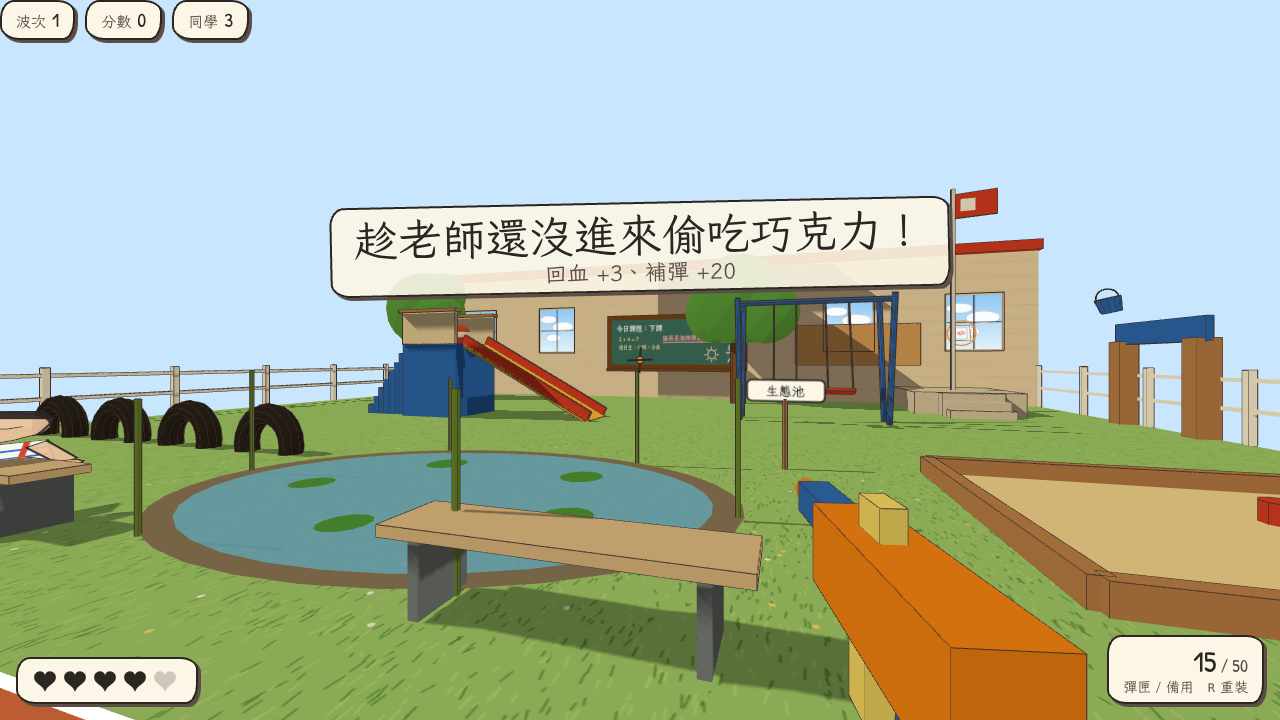
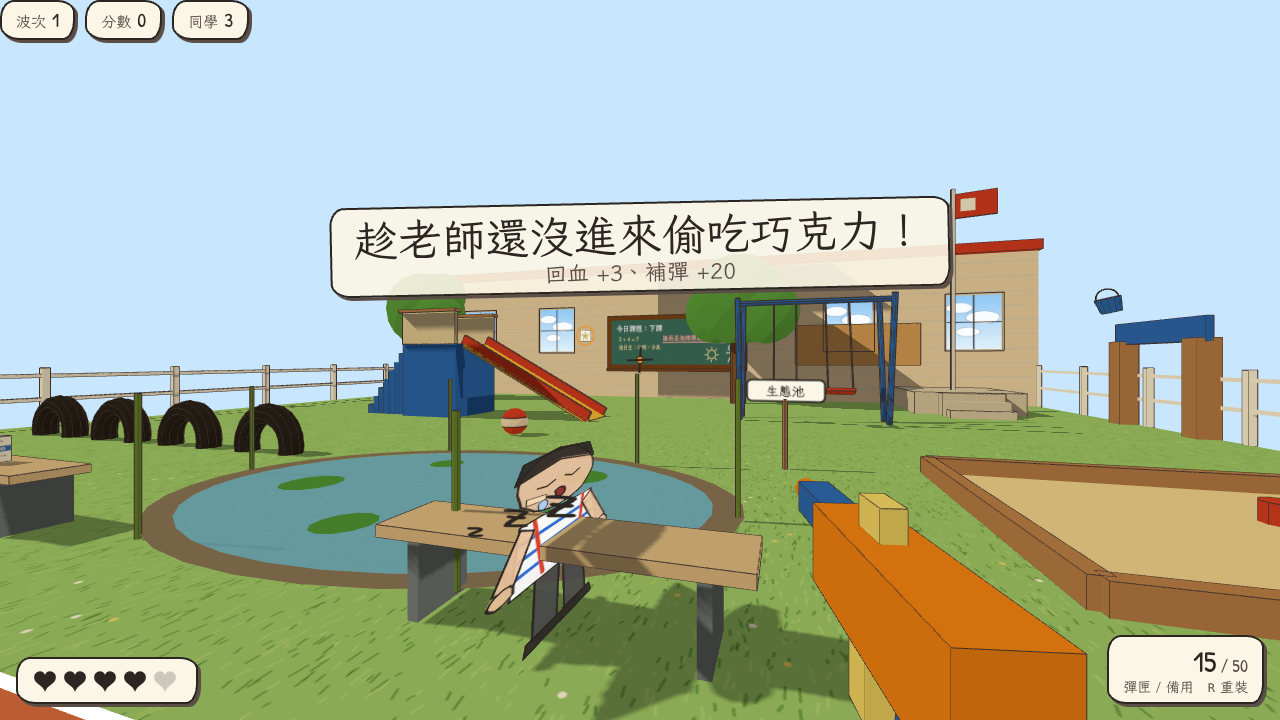
鞦韆腳架、生態池改成軟碰撞盒：只擋腳不擋彈，看得穿就打得到
Claude-Session: https://claude.ai/code/session_01JhYTsN25smVCe6zoC6MjkF

diff --git a/src/world.js b/src/world.js
@@ -27,7 +27,8 @@ export class World {
   dispose() { for (const o of this.objects) this.scene.remove(o); this.objects = []; this.boxes = []; this.desks = []; }
   toon(color) { return new THREE.MeshToonMaterial({ color, gradientMap: this.gradient }); }
   inked(mesh) { const e = new THREE.LineSegments(new THREE.EdgesGeometry(mesh.geometry, 20), this.inkMat); mesh.add(e); return mesh; }
-  collide(x, z, w, d, h, y0 = 0) { this.boxes.push({ minX: x - w / 2, maxX: x + w / 2, minZ: z - d / 2, maxZ: z + d / 2, h, y0 }); }
+  // soft: stops feet (walking, the nav grid) but not darts or sight — for open frames like the swing's A-legs and the pond's water
+  collide(x, z, w, d, h, y0 = 0, soft = false) { this.boxes.push({ minX: x - w / 2, maxX: x + w / 2, minZ: z - d / 2, maxZ: z + d / 2, h, y0, soft }); }
   // floor height at a point: 0 on the ground, the platform height on a stage or balcony, in between on stairs
   heightAt(x, z) {
     let h = 0;
@@ -177,7 +178,7 @@ export class World {
     switch (f.kind) {
       case 'swing': { // an A-frame with two seats that sway
         const g = new THREE.Group(); g.position.set(f.x, 0, f.z); this.add(g);
-        for (const sx of [-1, 1]) { for (const sz of [-1, 1]) { const leg = this.cylinder(0.05, 2.5, sx * 1.4, 1.25, sz * 0.5, 0x2f6fd1, { collide: false, parent: g, seg: 8 }); leg.rotation.x = sz * 0.2; } this.collide(f.x + sx * 1.4, f.z, 0.4, 1.2, 2.5); }
+        for (const sx of [-1, 1]) { for (const sz of [-1, 1]) { const leg = this.cylinder(0.05, 2.5, sx * 1.4, 1.25, sz * 0.5, 0x2f6fd1, { collide: false, parent: g, seg: 8 }); leg.rotation.x = sz * 0.2; } this.collide(f.x + sx * 1.4, f.z, 0.4, 1.2, 2.5, 0, true); }
         const bar = this.cylinder(0.05, 3.0, 0, 2.45, 0, 0x2f6fd1, { collide: false, parent: g, seg: 8 }); bar.rotation.z = Math.PI / 2;
         [-0.5, 0.5].forEach((sx, i) => {
           const pivot = new THREE.Group(); pivot.position.set(sx, 2.45, 0); g.add(pivot);
@@ -192,7 +193,7 @@ export class World {
         const rim = new THREE.Mesh(new THREE.RingGeometry(0.98, 1.08, 36), this.toon(0x8a7a66)); rim.rotation.x = -Math.PI / 2; rim.scale.set(f.w / 2, f.d / 2, 1); rim.position.set(f.x, 0.03, f.z); this.add(rim);
         for (let i = 0; i < 5; i++) { const a = i / 5 * 6.283 + 0.4, pad = new THREE.Mesh(new THREE.CircleGeometry(0.18 + Math.random() * 0.1, 12), this.toon(0x4f9a3f)); pad.rotation.x = -Math.PI / 2; pad.position.set(f.x + Math.cos(a) * f.w * 0.3, 0.04, f.z + Math.sin(a) * f.d * 0.3); this.add(pad); }
         for (let i = 0; i < 6; i++) { const a = i / 6 * 6.283, rx = f.x + Math.cos(a) * (f.w / 2 + 0.15), rz = f.z + Math.sin(a) * (f.d / 2 + 0.15); this.cylinder(0.02, 0.9 + Math.random() * 0.4, rx, 0.5, rz, 0x6b8f3a, { collide: false, seg: 6 }); }
-        this.collide(f.x, f.z, f.w, f.d * 0.5, 0.35); this.collide(f.x, f.z, f.w * 0.7, f.d * 0.85, 0.35); this.collide(f.x, f.z, f.w * 0.4, f.d, 0.35);
+        this.collide(f.x, f.z, f.w, f.d * 0.5, 0.35, 0, true); this.collide(f.x, f.z, f.w * 0.7, f.d * 0.85, 0.35, 0, true); this.collide(f.x, f.z, f.w * 0.4, f.d, 0.35, 0, true);
         const sign = new THREE.Mesh(new THREE.PlaneGeometry(0.9, 0.3), new THREE.MeshBasicMaterial({ map: Draw.tex(Draw.nameTag('生態池', '#fbf6e6', '#2b2622')), transparent: true })); sign.position.set(f.x + f.w / 2 + 0.5, 0.9, f.z - f.d / 2 - 0.2); this.add(sign); this.cylinder(0.03, 0.8, f.x + f.w / 2 + 0.5, 0.4, f.z - f.d / 2 - 0.22, 0xb98556, { collide: false, seg: 6 });
         return;
       }
@@ -411,7 +412,7 @@ export class World {
   pointInBox(p) {
     if (Math.abs(p.x) > this.room.w / 2 - 0.05 || Math.abs(p.z) > this.room.d / 2 - 0.05) return 'wall';
     if (p.y > this.room.h - 0.05) return 'wall';
-    for (const b of this.boxes) if (p.x > b.minX && p.x < b.maxX && p.z > b.minZ && p.z < b.maxZ && p.y < b.h && p.y > b.y0) return b;
+    for (const b of this.boxes) if (!b.soft && p.x > b.minX && p.x < b.maxX && p.z > b.minZ && p.z < b.maxZ && p.y < b.h && p.y > b.y0) return b;
     if (this.terrain.length && p.y < this.heightAt(p.x, p.z) - 0.02) return 'wall';
     return null;
   }
@@ -432,6 +433,7 @@ export class World {
       for (let i = 1; i < n; i++) { const t = i / n, x = p0.x + (p1.x - p0.x) * t, y = p0.y + (p1.y - p0.y) * t, z = p0.z + (p1.z - p0.z) * t; if (y < this.heightAt(x, z) - 0.03) return true; }
     }
     for (const b of this.boxes) {
+      if (b.soft) continue;
       let tmin = 0, tmax = 1;
       const mins = [b.minX, b.y0, b.minZ], maxs = [b.maxX, b.h, b.maxZ], o = [p0.x, p0.y, p0.z], d = [p1.x - p0.x, p1.y - p0.y, p1.z - p0.z];
       let hit = true;

diff --git a/DESIGN.md b/DESIGN.md
@@ -215,6 +215,10 @@
 - 碰撞：課桌和椅子之間原本留 5 cm 的縫，圓會卡進去，改成一個連續的腳印；推出碰撞盒做兩次，被 A 推出去不會再卡進 B；單椅、圓凳的碰撞盒縮小（0.36／0.32 m）。
 - 驗證：`tools/flow-test.cjs` 在每張地圖直線穿過修過的縫（都走到底），`classroom-aisles-test` 四條直排與三條橫排走道全通。
 
+### 4.8c 看得穿就打得到：軟碰撞盒
+- 回饋：隔著鞦韆腳架的縫看得到人，泡棉彈卻射不到。原因是 A 字腳架是兩根細桿，碰撞盒卻是 0.4 × 1.2 × 2.5 m 的實心板；生態池也有三個 0.35 m 高的隱形盒擋住低飛的彈。
+- 修法：碰撞盒多一個 `soft` 旗標，只擋腳（走路、導航格），不擋彈道、準星收斂與視線（`pointInBox`、`segmentBlocked` 跳過）。鞦韆腳架與生態池的水改成 soft。`tools/swing-test.cjs`：準星射線與真彈都穿過腳架到圍牆，走路照樣被擋在腳架前、池邊。
+
 ### 4.9 守校門：惡霸軍團（趣味挑戰）
 - 目標：隔壁學校的惡霸軍團要闖進操場，守住十波。只在操場（它有圍牆、校門、草地），首頁「玩法」切換，連線時跟著開房的人。
 - 入口三種，輪流出現（帶頭的老大一定走校門）：校門（+x 牆的兩個出入口，守校門模式畫成磚柱加「校門」招牌）、爬牆（三塊靠在圍牆內側的木板，惡霸出現在圍牆頂 1.35 m 處掉下來）、水溝蓋（草地上三個鐵蓋，惡霸從地下 1.45 m 升上來，蓋子會掀開滑到一旁再蓋回去）。入口種類和水溝蓋編號放在小孩的 variant 裡一起同步，隊友那邊的蓋子也會掀。
